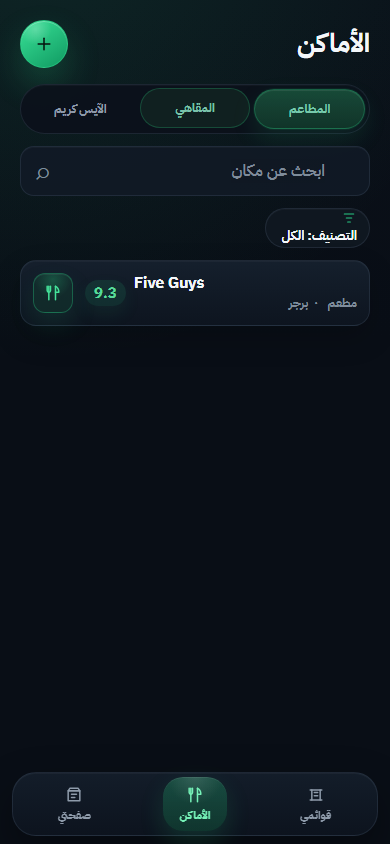
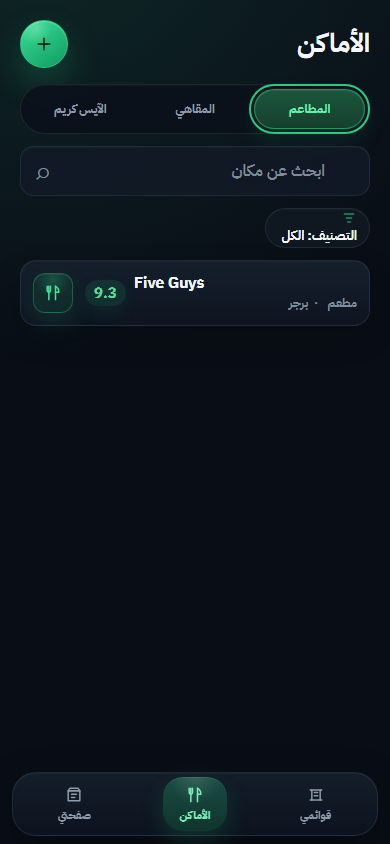
fix(ui): simplify Base UI tabs selection path

Changed region(s): [[0.6154, 0.0924, 0.9538, 0.154], [0.4308, 0.1232, 0.5538, 0.154], [0.6769, 0.154, 0.7077, 0.1848]]

diff --git a/frontend/src/features/places/PlaceLibraryPage.tsx b/frontend/src/features/places/PlaceLibraryPage.tsx
@@ -324,8 +324,6 @@ export function PlaceLibraryPage({ initialType }: { initialType: PlaceType }) {
                         "place-type-filters__tab",
                         activeType === option.value && "is-selected"
                       )}
-                      onClick={() => selectType(option.value)}
-                      onFocus={() => selectType(option.value)}
                       type="button"
                     >
                       {option.label}

diff --git a/BASE_UI_TABS_PILOT_REPORT.md b/BASE_UI_TABS_PILOT_REPORT.md
@@ -34,6 +34,7 @@ No other surface or primitive was migrated.
 - Browser history still uses replace-style behavior for type changes.
 - Existing visual styling is preserved by reusing the current button classes and selected-state class.
 - No product behavior, routing model, backend contract, or business rule changed.
+- Review cleanup removed duplicate per-tab selection handlers. `Tabs.Root onValueChange` is now the single canonical path that updates selected type, URL query, and filtering state.
 
 The pilot intentionally keeps the existing Places results region unchanged instead of restructuring it into Base UI tab panels. This keeps the migration limited to selector semantics and avoids changing loading, empty, or list rendering behavior.
 
@@ -71,6 +72,8 @@ E2E coverage verifies:
 - `docs/qa-execution/base-ui-tabs-pilot/screenshots/places-tabs-320x568-after.png`
 - `docs/qa-execution/base-ui-tabs-pilot/screenshots/places-tabs-selected-state-390x844-after.png`
 - `docs/qa-execution/base-ui-tabs-pilot/screenshots/places-tabs-focused-390x844-after.png`
+
+Review cleanup replaced the focused-state screenshot with keyboard-driven focus evidence so the focus ring/state is visually clearer.
 
 ## Tests Updated
 
